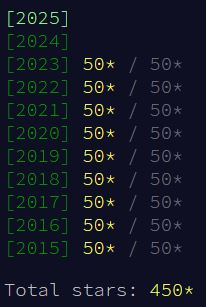
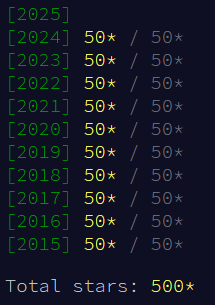
Advent of Code 2024 Day 25

diff --git a/src/main/java/net/eugenpaul/adventofcode/y2024/day25/Day25.java b/src/main/java/net/eugenpaul/adventofcode/y2024/day25/Day25.java
@@ -1,0 +1,118 @@
+package net.eugenpaul.adventofcode.y2024.day25;
+
+import java.util.ArrayList;
+import java.util.List;
+import java.util.logging.Level;
+
+import lombok.Getter;
+import net.eugenpaul.adventofcode.helper.SolutionTemplate;
+
+public class Day25 extends SolutionTemplate {
+
+    private record Comb(int a, int b, int c, int d, int e) {
+    }
+
+    @Getter
+    private long totalScore;
+    @Getter
+    private long totalScore2;
+
+    public static void main(String[] args) {
+        Day25 puzzle = new Day25();
+        puzzle.doPuzzleFromFile("y2024/day25/puzzle1.txt");
+    }
+
+    @Override
+    public boolean doEvent(String eventData) {
+        return doEvent(List.of(eventData));
+    }
+
+    @Override
+    public boolean doEvent(List<String> eventData) {
+        totalScore = doPuzzle1(eventData);
+        totalScore2 = doPuzzle2(eventData);
+        return true;
+    }
+
+    public long doPuzzle1(List<String> eventData) {
+        long response = 0;
+
+        List<Comb> keys = new ArrayList<>();
+        List<Comb> locks = new ArrayList<>();
+
+        boolean first = true;
+        boolean key = false;
+        int a = 0;
+        int b = 0;
+        int c = 0;
+        int d = 0;
+        int e = 0;
+
+        for (String data : eventData) {
+            if (data.isEmpty()) {
+                first = true;
+                if (key) {
+                    keys.add(new Comb(a - 1, b - 1, c - 1, d - 1, e - 1));
+                } else {
+                    locks.add(new Comb(a - 1, b - 1, c - 1, d - 1, e - 1));
+                }
+                continue;
+            }
+            if (first) {
+                key = data.equals(".....");
+                a = 0;
+                b = 0;
+                c = 0;
+                d = 0;
+                e = 0;
+                first = false;
+            }
+
+            if (data.charAt(0) == '#') {
+                a++;
+            }
+            if (data.charAt(1) == '#') {
+                b++;
+            }
+            if (data.charAt(2) == '#') {
+                c++;
+            }
+            if (data.charAt(3) == '#') {
+                d++;
+            }
+            if (data.charAt(4) == '#') {
+                e++;
+            }
+        }
+        if (key) {
+            keys.add(new Comb(a - 1, b - 1, c - 1, d - 1, e - 1));
+        } else {
+            locks.add(new Comb(a - 1, b - 1, c - 1, d - 1, e - 1));
+        }
+
+        for (var k : keys) {
+            for (var lock : locks) {
+                if (//
+                k.a + lock.a <= 5//
+                        && k.b + lock.b <= 5//
+                        && k.c + lock.c <= 5//
+                        && k.d + lock.d <= 5//
+                        && k.e + lock.e <= 5//
+                ) {
+                    response++;
+                }
+            }
+        }
+
+        logger.log(Level.INFO, "Solution 1 " + response);
+        return response;
+    }
+
+    public long doPuzzle2(List<String> eventData) {
+        long response = 0;
+
+        logger.log(Level.INFO, "Solution 2 " + response);
+        return response;
+    }
+
+}

diff --git a/src/test/java/net/eugenpaul/adventofcode/y2024/day25/Day25Test.java b/src/test/java/net/eugenpaul/adventofcode/y2024/day25/Day25Test.java
@@ -1,0 +1,29 @@
+package net.eugenpaul.adventofcode.y2024.day25;
+
+import static org.junit.jupiter.api.Assertions.assertEquals;
+import static org.junit.jupiter.api.Assertions.assertTrue;
+
+import java.util.List;
+
+import org.junit.jupiter.api.Test;
+
+import net.eugenpaul.adventofcode.helper.FileReaderHelper;
+
+class Day25Test {
+
+    @Test
+    void testTest2024Day25_1() {
+        Day25 event = new Day25();
+        assertEquals(3, event.doPuzzle1(FileReaderHelper.readListStringFromFile("y2024/day25/test_puzzle.txt")));
+    }
+
+    @Test
+    void testSolution2024Day25() {
+        Day25 event = new Day25();
+
+        List<String> eventData = FileReaderHelper.readListStringFromFile("y2024/Day25/puzzle1.txt");
+        assertTrue(event.doPuzzleFromData(eventData));
+
+        assertEquals(3291, event.getTotalScore());
+    }
+}

diff --git a/src/main/java/net/eugenpaul/adventofcode/y2024/README.md b/src/main/java/net/eugenpaul/adventofcode/y2024/README.md
@@ -1,6 +1,6 @@
 # Solutions
 
-## Progress: Year 2024 [48/50]
+## Progress: Year 2024 [50/50]
 
 | Day | Status | Link                                    |
 | --- | ------ | --------------------------------------- |
@@ -28,4 +28,6 @@
 | 22  | ⭐⭐   | [Day 22: Monkey Market](day22)          |
 | 23  | ⭐⭐   | [Day 23: LAN Party](day23)              |
 | 24  | ⭐⭐   | [Day 24: Crossed Wires](day24)          |
-| 25  |        |                                         |
+| 25  | ⭐⭐   | [Day 25: Code Chronicle](day25)         |
+
+![Solutions 2024](../../../../../../../doc/img/2024.png "2024 is done")

diff --git a/README.md b/README.md
@@ -6,7 +6,9 @@ One folder for each year. One folder for each event. Resource folder contains my
 
 ## Progress
 
-[Solutions 2024 - **48/50**⭐](src/main/java/net/eugenpaul/adventofcode/y2024)
+[Solutions 2025 - **0/XX**⭐](src/main/java/net/eugenpaul/adventofcode/y2025)
+
+[Solutions 2024 - **50/50**⭐](src/main/java/net/eugenpaul/adventofcode/y2024)
 
 [Solutions 2023 - **50/50**⭐](src/main/java/net/eugenpaul/adventofcode/y2023)
 

diff --git a/src/main/java/net/eugenpaul/adventofcode/y2024/day25/README.md b/src/main/java/net/eugenpaul/adventofcode/y2024/day25/README.md
@@ -1,0 +1,1 @@
+[Advent of Code Year 2024 Day 25](https://adventofcode.com/2024/day/25)
